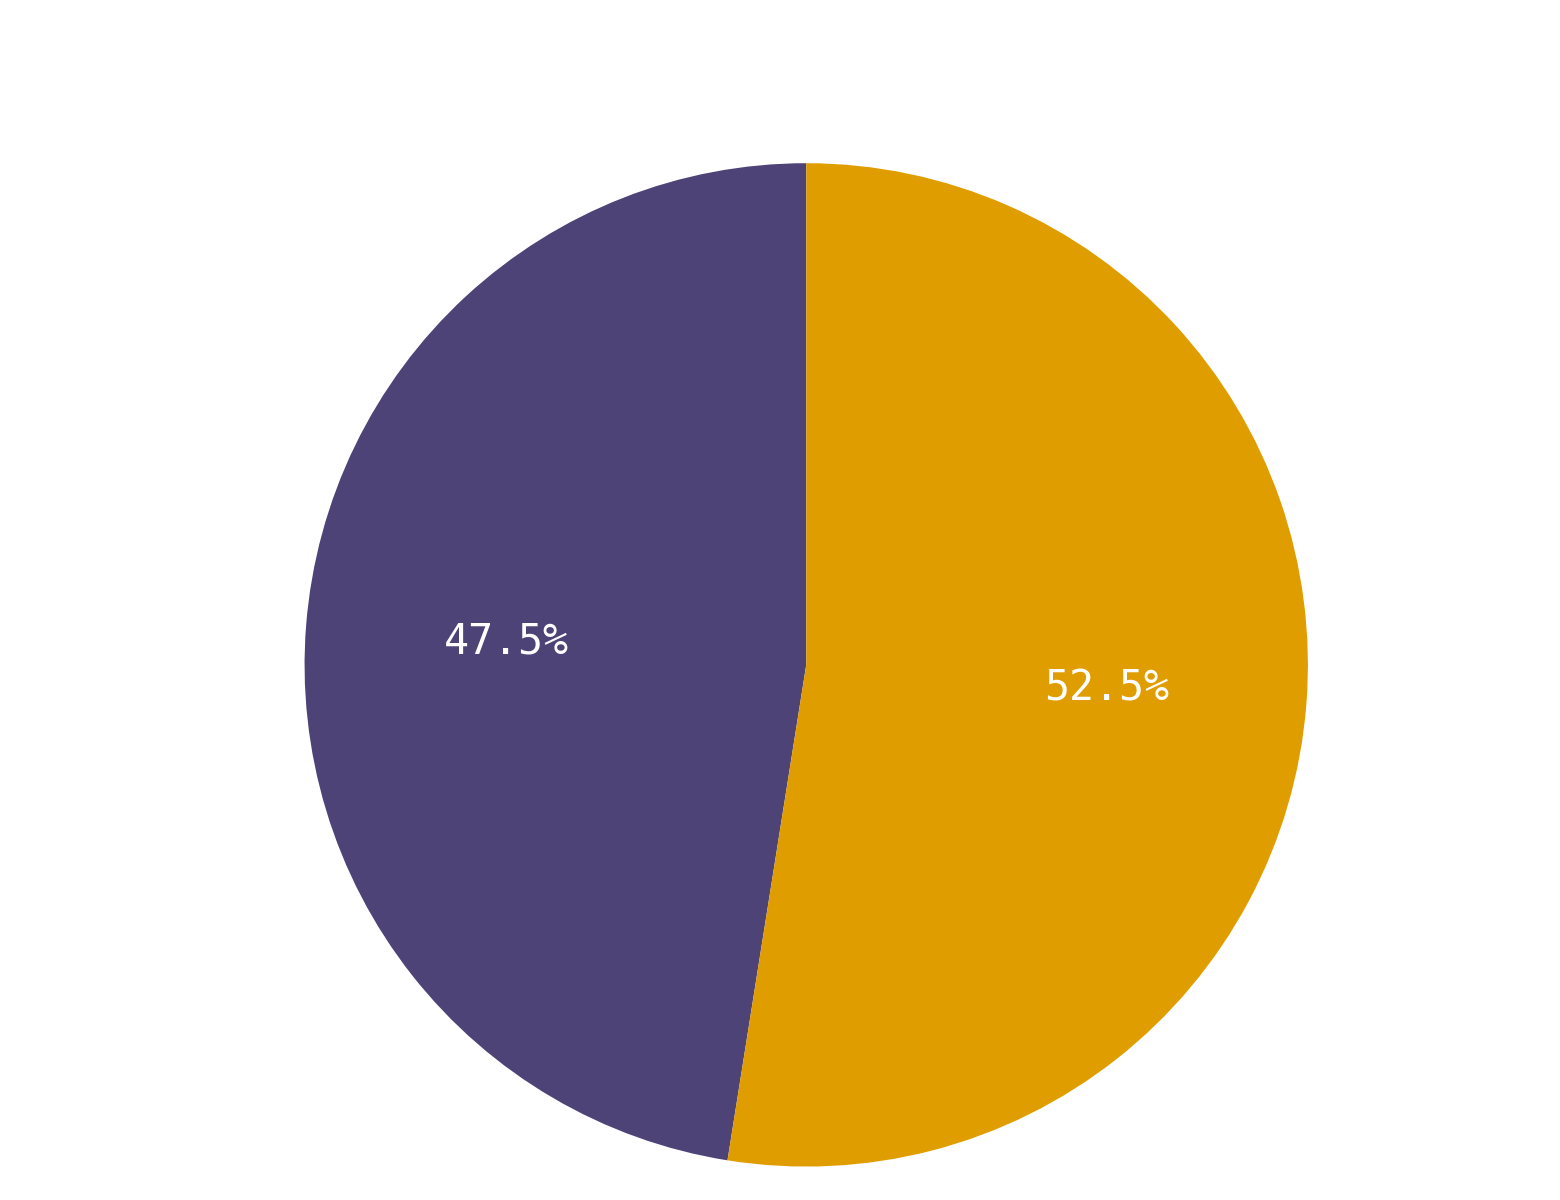
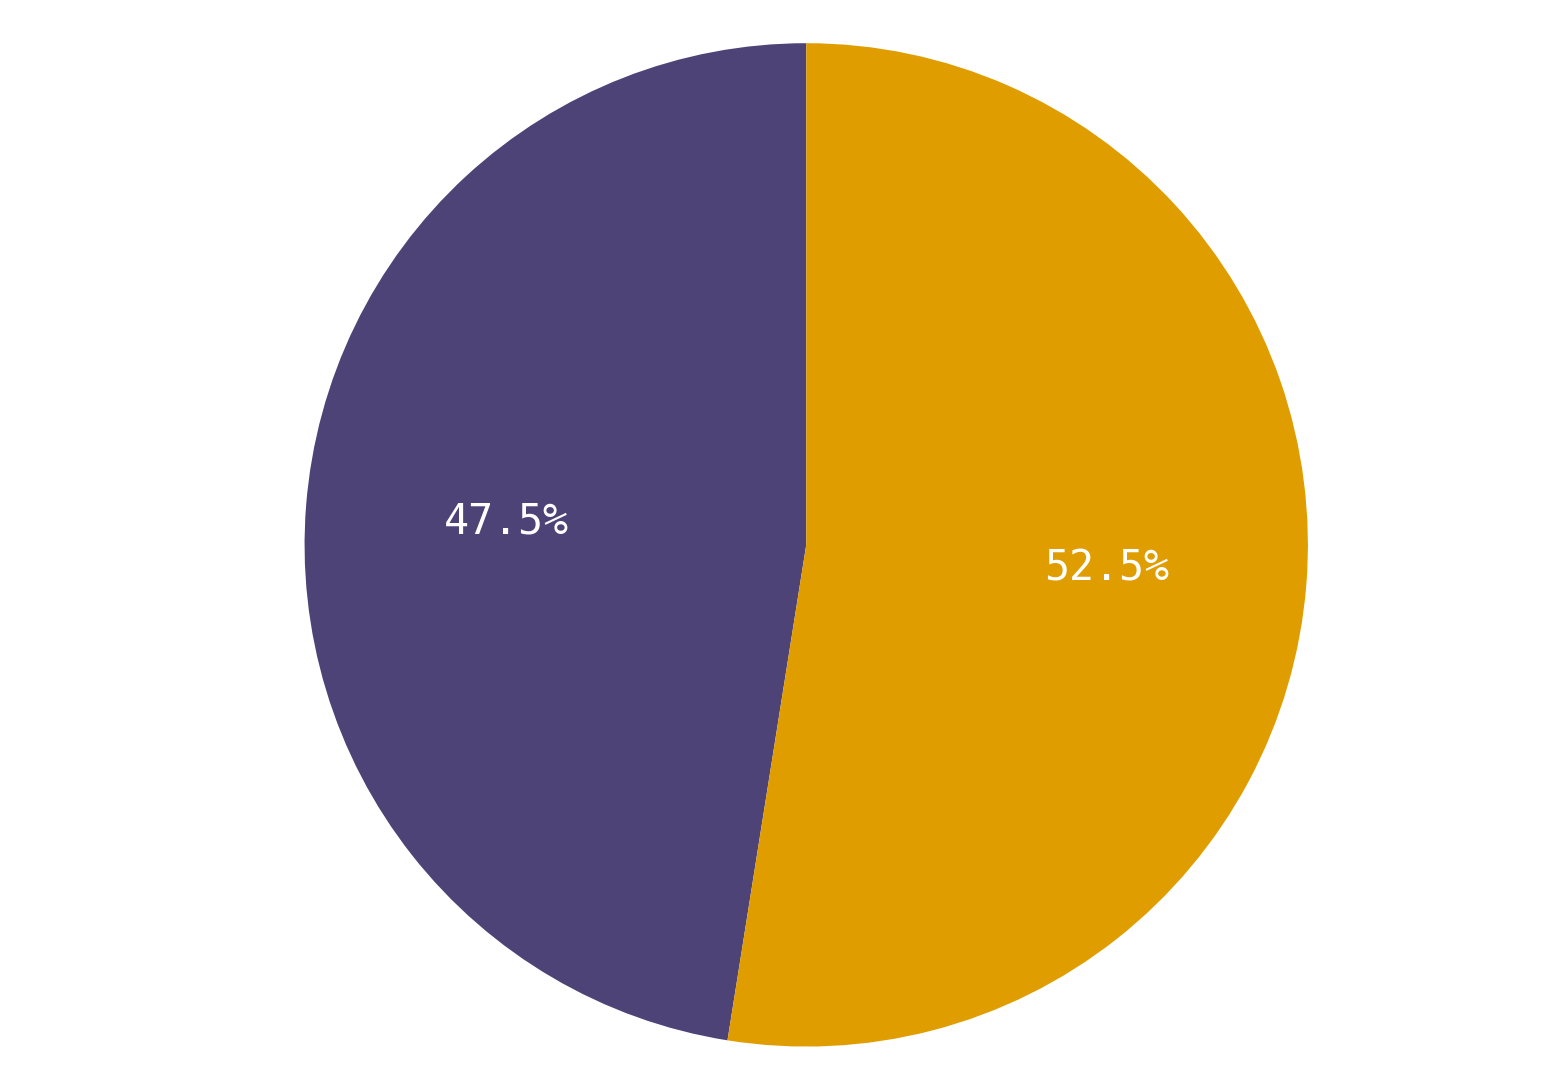
work scroll effect, style

diff --git a/templates/home.html b/templates/home.html
@@ -3,7 +3,7 @@
 
 <head>
     <meta charset="utf-8">
-    <meta name="viewport" content="width=device-width, initial-scale=1, shrink-to-fit=no">
+    <meta name="viewport" content="width=device-width, initial-scale=1, viewport-fit=cover">    
     <meta name="description" content="Survivor">
     <link rel="preconnect" href="https://fonts.gstatic.com">
     <link href="https://fonts.googleapis.com/css2?family=Lato:wght@300&display=swap" rel="stylesheet">
@@ -13,17 +13,26 @@
 <header>
     <img id="logo" src="{{ url_for('static', filename='survivordata.png') }}" alt="Survivor Data Logo">
 </header>
+<nav class="mobile-nav">
+    <a href="#">Top</a>
+    <a href="#about">About</a>
+    <a href="#list-of-winners">List of Winners</a>
+    <a href="#winners-by-gender">Winners by Gender</a>
+    <a href="#winners-by-age">Winners by Age</a>
+    <a href="#winners-by-region">Winners by Region</a>
+    <a href="#unanimous-winners">Unanimous Winners</a>
+    <a href="#close-votes">Close Votes</a>
+    <a href="#votes-by-gender">Votes by Gender</a>
+</nav>
 <main>
 <body>
     <nav class="desktop-nav">
         <a href="#">Top</a>
         <a href="#about">About</a>
-        <a class="new-sec" href="#list-of-winners">Winners:</a>
         <a href="#list-of-winners">List of Winners</a>
         <a href="#winners-by-gender">Winners by Gender</a>
         <a href="#winners-by-age">Winners by Age</a>
         <a href="#winners-by-region">Winners by Region</a>
-        <a class="new-sec" href="#unanimous-winners">Jury:</a>
         <a href="#unanimous-winners">Unanimous Winners</a>
         <a href="#close-votes">Close Votes</a>
         <a href="#votes-by-gender">Votes by Gender</a>
@@ -32,7 +41,7 @@
         <h2>About</h2>     
         <p>During lockdown 2020, I watched a lot of Survivor.</p>
         <p>I've created a database of player information pulled from the first 40 seasons of Survivor and crunched some numbers. </p>
-        <p>The code to the project, as well as a more technical breakdown to how I did everything, plus the database can be found <a href="#">here</a>. If anyone wants to keep this project up to date as new seasons air, I've included information in the Github on how to do that.</p>
+        <p>The code to the project, as well as a more technical breakdown to how I did everything, plus the database can be found <a href="#">here</a>. If anyone wants to help keep this project up to date as new seasons air, I've included information in the Github on how to do that.</p>
         <h2>Acknowledgements</h2>
         <p>I started this database with data from <a href="https://survivor.fandom.com/wiki/Main_Page">Survivor Wiki</a>, and added additional information to it.</p>
         <h2>And now...</h2>
@@ -45,7 +54,7 @@
 SVG created from jpg by potrace 1.10, written by Peter Selinger 2001-2011
 </metadata>
 <g transform="translate(0.000000,900.000000) scale(0.100000,-0.100000)"
-fill="none" stroke="#fff" stroke-width="15" id="tally-g">
+fill="none" stroke="#fff" stroke-width="30" id="tally-g">
 <path id="tally-path" d="M1830 7551 c-37 -9 -109 -59 -153 -105 -43 -45 -157 -211 -157 -228
 0 -6 -6 -19 -13 -27 -7 -9 -28 -50 -46 -91 -52 -115 -55 -123 -101 -250 -7
 -19 -15 -48 -18 -65 -2 -16 -11 -39 -18 -50 -8 -11 -14 -29 -14 -40 0 -12 -6
@@ -350,8 +359,6 @@ m996 -36 c9 -61 -4 -198 -23 -243 -29 -69 -42 -97 -79 -174 -46 -95 -66 -99
     <thead>
         <tr>
             <th>Name</th>
-            <th>Age (at time of filming)</th>
-            <th>Hometown</th>
             <th>Season #</th>
             <th>Season Name</th>
             <th>Tribal Wins</th>
@@ -363,8 +370,6 @@ m996 -36 c9 -61 -4 -198 -23 -243 -29 -69 -42 -97 -79 -174 -46 -95 -66 -99
         {% for i in winclass.men_seasons() %}
         <tr>
             <td>{{ winclass.men_winners('Players', 'name', i) }}</td>
-            <td>{{ winclass.men_winners('Stats', 'age_time_of_filming', i) }} </td>
-            <td>{{ winclass.men_winners('Stats', 'hometown', i) }}</td>
             <td>{{ i }}</td>
             <td>{{ winclass.men_winners('Seasons', 'season', i) }}</td>
             <td>{{ winclass.men_winners('Stats', 'tribal_wins', i) }}</td>
@@ -381,9 +386,7 @@ m996 -36 c9 -61 -4 -198 -23 -243 -29 -69 -42 -97 -79 -174 -46 -95 -66 -99
 <p>Men Players: {{ playerclass.num_men_players() }}</p>
 <p>Non-Binary Players: {{ playerclass.num_nb_players() }}</p>
 </div>
-<div class="pie">
-<img src="{{ url_for('static', filename='gender_pie_players_cropped.png') }}">
-</div>
+<img class="pie" src="{{ url_for('static', filename='gender_pie_players_cropped.png') }}">
 </article>
 <h3>Winners</h3>
 <article>
@@ -392,9 +395,7 @@ m996 -36 c9 -61 -4 -198 -23 -243 -29 -69 -42 -97 -79 -174 -46 -95 -66 -99
 <p>Men Winners: {{ winclass.num_men_winners() }}</p>
 <p>Non-Binary Winners: {{ winclass.num_nb_winners() }}</p>
 </div>
-<div class="pie">
-<img src="{{ url_for('static', filename='gender_pie_winners_cropped.png') }}">
-</div>
+<img class="pie" src="{{ url_for('static', filename='gender_pie_winners_cropped.png') }}">
 </article>
 </section>
 <section id="winners-by-age">
@@ -452,9 +453,7 @@ m996 -36 c9 -61 -4 -198 -23 -243 -29 -69 -42 -97 -79 -174 -46 -95 -66 -99
 <p>40-49 Players: {{ playerclass.age_group_players(40, 49) }}</p>
 <p>50+ Players: {{ playerclass.age_group_players(50, 100) }}</p>
 </div>
-<div class="pie">
-<img src="{{ url_for('static', filename='age_pie_players_cropped.png') }}">
-</div>
+<img class="pie" src="{{ url_for('static', filename='age_pie_players_cropped.png') }}">
 </article>
 <h3>Winners</h3>
 <article>
@@ -464,9 +463,7 @@ m996 -36 c9 -61 -4 -198 -23 -243 -29 -69 -42 -97 -79 -174 -46 -95 -66 -99
 <p>40-49 Winners: {{ winclass.age_group_winners(40, 49) }}</p>
 <p>50+ Winners: {{ winclass.age_group_winners(50, 100) }}</p>
 </div>
-<div class="pie">
-<img src="{{ url_for('static', filename='age_pie_winners_cropped.png') }}">
-</div>
+<img class="pie" src="{{ url_for('static', filename='age_pie_winners_cropped.png') }}">
 </article>
 </section>
 <section id="winners-by-region">
@@ -481,9 +478,7 @@ m996 -36 c9 -61 -4 -198 -23 -243 -29 -69 -42 -97 -79 -174 -46 -95 -66 -99
     <p>Western Players: {{ playerclass.num_western_players() }}</p>
     <p>Midwest Players: {{ playerclass.num_midwest_players() }}</p>
     </div>
-    <div class="pie">
-    <img src="{{ url_for('static', filename='region_pie_players_cropped.png') }}">
-    </div>
+    <img class="pie" src="{{ url_for('static', filename='region_pie_players_cropped.png') }}">
     </article>
     <h3>Winners</h3>
     <article>
@@ -494,9 +489,7 @@ m996 -36 c9 -61 -4 -198 -23 -243 -29 -69 -42 -97 -79 -174 -46 -95 -66 -99
         <p>Western Winners: {{ winclass.num_western_winners() }}</p>
         <p>Midwest Winners: {{ winclass.num_midwest_winners() }}</p>
     </div>
-    <div class="pie">
-    <img src="{{ url_for('static', filename='region_pie_winners_cropped.png') }}">
-    </div>
+    <img class="pie" src="{{ url_for('static', filename='region_pie_winners_cropped.png') }}">
     </article>
     <div class="clarify">
         <p>Southern: TX, OK, LA, AR, MS, AL, GA, TN, KY, FL, SC, NC
@@ -567,9 +560,7 @@ m996 -36 c9 -61 -4 -198 -23 -243 -29 -69 -42 -97 -79 -174 -46 -95 -66 -99
 <p>Men jury members: {{ juryclass.gender_jury((juryclass.make_vote_dict()), 'M') }}</p>
 <p>Non-binary jury members: {{ juryclass.gender_jury((juryclass.make_vote_dict()), 'NB') }}</p>
 </div>
-<div class="pie">
-<img src="{{ url_for('static', filename='gender_pie_jury_alljury_cropped.png') }}">
-</div>
+<img class="pie" src="{{ url_for('static', filename='gender_pie_jury_alljury_cropped.png') }}">
 </article>
 <h3>Women</h3>
 <article>
@@ -578,9 +569,7 @@ m996 -36 c9 -61 -4 -198 -23 -243 -29 -69 -42 -97 -79 -174 -46 -95 -66 -99
 <p>Women jury member votes for men finalist: {{ juryclass.gender_votes((juryclass.make_vote_dict()), 'w4m') }}</p>
 <p>Women jury member votes for non-binary finalist: {{ juryclass.gender_votes((juryclass.make_vote_dict()), 'w4nb') }}</p>
 </div>
-<div class="pie">
-<img src="{{ url_for('static', filename='gender_pie_jury_women_cropped.png') }}">
-</div>
+<img class="pie" src="{{ url_for('static', filename='gender_pie_jury_women_cropped.png') }}">
 </article>
         <h3>Men</h3>
 <article>
@@ -589,9 +578,7 @@ m996 -36 c9 -61 -4 -198 -23 -243 -29 -69 -42 -97 -79 -174 -46 -95 -66 -99
 <p>Men jury member votes for women finalist: {{ juryclass.gender_votes((juryclass.make_vote_dict()), 'm4w') }}</p>
 <p>Men jury member votes for non-binary finalist: {{ juryclass.gender_votes((juryclass.make_vote_dict()), 'm4nb') }}</p>
 </div>
-<div class="pie">
-<img src="{{ url_for('static', filename='gender_pie_jury_men_cropped.png') }}">
-</div>
+<img class="pie" src="{{ url_for('static', filename='gender_pie_jury_men_cropped.png') }}">
 </article>
     </section>
 </main>
@@ -618,21 +605,53 @@ $(document).ready(() => {
         
         if (scrollPercentage >= 0.25) {
             path.style.strokeDasharray = "none";
-            $('#tally-g').css('fill', '#ffffff');
+            $('#tally-g').css('fill', '#A1BE37');
+            $('svg').css('background', "url('https://www.realityblurred.com/realitytv/images/2019/12/jeff-probst-torch-snuff-survivor-season-39-episode-10.jpg')");
+            $('svg').css('background-size', "cover");
         } 
         else {
             path.style.strokeDasharray = pathLength + ' ' + pathLength;
             $('#tally-g').css('fill', 'none');
+            $('svg').css('background', 'none');
         }
     }); 
-    
+}); 
 
-    // nav bar appear effect
-    const $navbar = $('nav');
+// nav bar appear effect
+var size = {
+  width: window.innerWidth || document.body.clientWidth,
+  height: window.innerHeight || document.body.clientHeight
+}
+
+const $navbar = $('.desktop-nav');
+if(size.width > 920) {
     $(document).scroll(function() {
-        $navbar.css({display: $(this).scrollTop() > 300? "block":"none"});
+        if($(this).scrollTop() > 300) {
+            $navbar.css('display', 'block');
+        }
     });
-});
+} else {
+    $navbar.css('display', 'none');
+}
+
+// scroll effect js
+$('#tally').css('margin-top', `${(size.height / 4)}px`);
+
+// $('.mobile-nav').css('width', `${size.width}px`);
+// $('.mobile-nav').css('height', `${size.height}px`);
+
+
+// const $navbar = $('.desktop-nav');
+// if(size.width > 920) {
+//     $(document).scroll(function() {
+//         if($(this).scrollTop() > 300) {
+//             $navbar.css('display', 'block');
+//         }
+//     });
+// } else {
+//     $navbar.css('display', 'none');
+// }
+
 </script>
 </body>
 

diff --git a/static/style.css b/static/style.css
@@ -59,9 +59,15 @@ nav.desktop-nav a:hover {
     color: #fff;
 }
 
-nav.desktop-nav a.new-sec{
-  text-decoration: underline;
-  /* font-weight: bold; */
+mobile-icon {
+  display: none;
+}
+
+nav.mobile-nav {
+  position: fixed;
+  display: block;
+  background: rgba(255, 255, 255, 0.4);
+  color: black;
 }
 
 /* ---------------------- *\
@@ -83,7 +89,6 @@ section a:hover {
 
 table {
     width: 100%;
-    min-width: 742px;
     border-collapse: collapse;
     overflow: hidden;
     box-shadow: 0 0 40px rgba(0, 0, 0, 0.1);
@@ -131,12 +136,11 @@ section.scroll-effect {
 }
 
 section.scroll-effect #tally {
-  width: 80%;
+  width: 100%;
   height: auto;
   position: -webkit-sticky; /* Safari */
   position: sticky;
   top: 0;
-  left: 20%;
 }
 
 /* ---------------------- *\
@@ -149,6 +153,7 @@ article {
   display: -moz-box;
   display: -ms-flexbox;
   display: -webkit-flex;
+  flex-flow: row;
   justify-content: center; 
   align-items: center; 
   margin-bottom: 50px; 
@@ -156,15 +161,16 @@ article {
   border-radius: 10px;
   border: 2px solid white;
   box-shadow: 0 0 50px rgba(0, 0, 0, 0.1);
+  padding-top: 30px;
+  padding-bottom: 30px;
 }
 
 p + article {
     margin-top: 40px;
 }
 
-.pie img {
+.pie {
   width: 500px;
-  /* margin-bottom: 40px; */
 }
 
 .info {
@@ -184,21 +190,37 @@ p + article {
   #MEDIA-QUERIES
 \* ---------------------- */
 
-@media screen and (max-width: 1080px) {
-    main {
-      margin-right: 80px;
-    }
-}
-
 @media screen and (max-width: 920px) {
-    
-}
-
-@media screen and (max-height: 450px) {
-    .sidenav {
-        padding-top: 15px;
+    .desktop-nav {
+      display: none;
+      opacity: 0%;
     }
-    .sidenav a {
-        font-size: 18px;
+
+    main {
+      margin: 0 30px;
+    }
+
+    table {
+      font-size: 10px;
+    }
+
+    article {
+      flex-flow: column;
+      justify-content: center; 
+      align-items: center; 
+      margin-bottom: 50px; 
+      padding-top: 30px;
+      padding-bottom: 30px;
+    }
+
+    .pie {
+      padding-top: 20px;
+      width: 80%;
+    }
+
+    .info {
+      width: 60%;
+      margin: 0 auto;
+      text-align: center;
     }
 }

diff --git a/visuals.py b/visuals.py
@@ -14,7 +14,7 @@ class visualmaker:
         plt.rcParams['text.color'] = 'white'
         labels = label1, label2
         sizes = [value1, value2]
-        explode = (0, 0)  # tells which slice to "explode
+        explode = (0, 0)  # tells which slice to "explode"
         colors_list = [color1, color2]
         fig1, ax1 = plt.subplots()
         ax1.pie(sizes, explode=explode, labels=labels, autopct='%1.1f%%',
@@ -25,7 +25,7 @@ class visualmaker:
         imgPath = 'static/' + file_name + '.png'
         img = Image.open(imgPath)
         width, height = img.size
-        box = ((width / 8 - width / 32), 60, (width - width / 8 + width / 32), (height - height / 8))
+        box = ((width / 8 - width / 32), (height / 8), (width - width / 8 + width / 32), (height - height / 8))
         croppedImage = img.crop(box)
         croppedImage.save('static/' + file_name + '_cropped.png')
 
@@ -34,7 +34,7 @@ class visualmaker:
         plt.rcParams['text.color'] = 'white'
         labels = label1, label2, label3, label4
         sizes = [value1, value2, value3, value4]
-        explode = (0, 0, 0, 0)  # tells which slice to "explode
+        explode = (0, 0, 0, 0)  # tells which slice to "explode"
         colors_list = [color1, color2, color3, color4]
         fig1, ax1 = plt.subplots()
         ax1.pie(sizes, explode=explode, labels=labels, autopct='%1.1f%%',
@@ -54,7 +54,7 @@ class visualmaker:
         plt.rcParams['text.color'] = 'white'
         labels = label1, label2, label3, label4, label5
         sizes = [value1, value2, value3, value4, value5]
-        explode = (0, 0, 0, 0, 0)  # tells which slice to "explode
+        explode = (0, 0, 0, 0, 0)  # tells which slice to "explode"
         colors_list = [color1, color2, color3, color4, color5]
         fig1, ax1 = plt.subplots()
         ax1.pie(sizes, explode=explode, labels=labels, autopct='%1.1f%%',
@@ -65,7 +65,6 @@ class visualmaker:
         imgPath = 'static/' + file_name + '.png'
         img = Image.open(imgPath)
         width, height = img.size
-        box = ((width / 8 - width / 32), (height / 12), (width - width / 8 + width / 32), (height - height / 24))
+        box = ((width / 8 - width / 32), (height / 12), (width - width / 8 + width / 32), (height - height / 12))
         croppedImage = img.crop(box)
         croppedImage.save('static/' + file_name + '_cropped.png')
-        # 70 40 570 460
